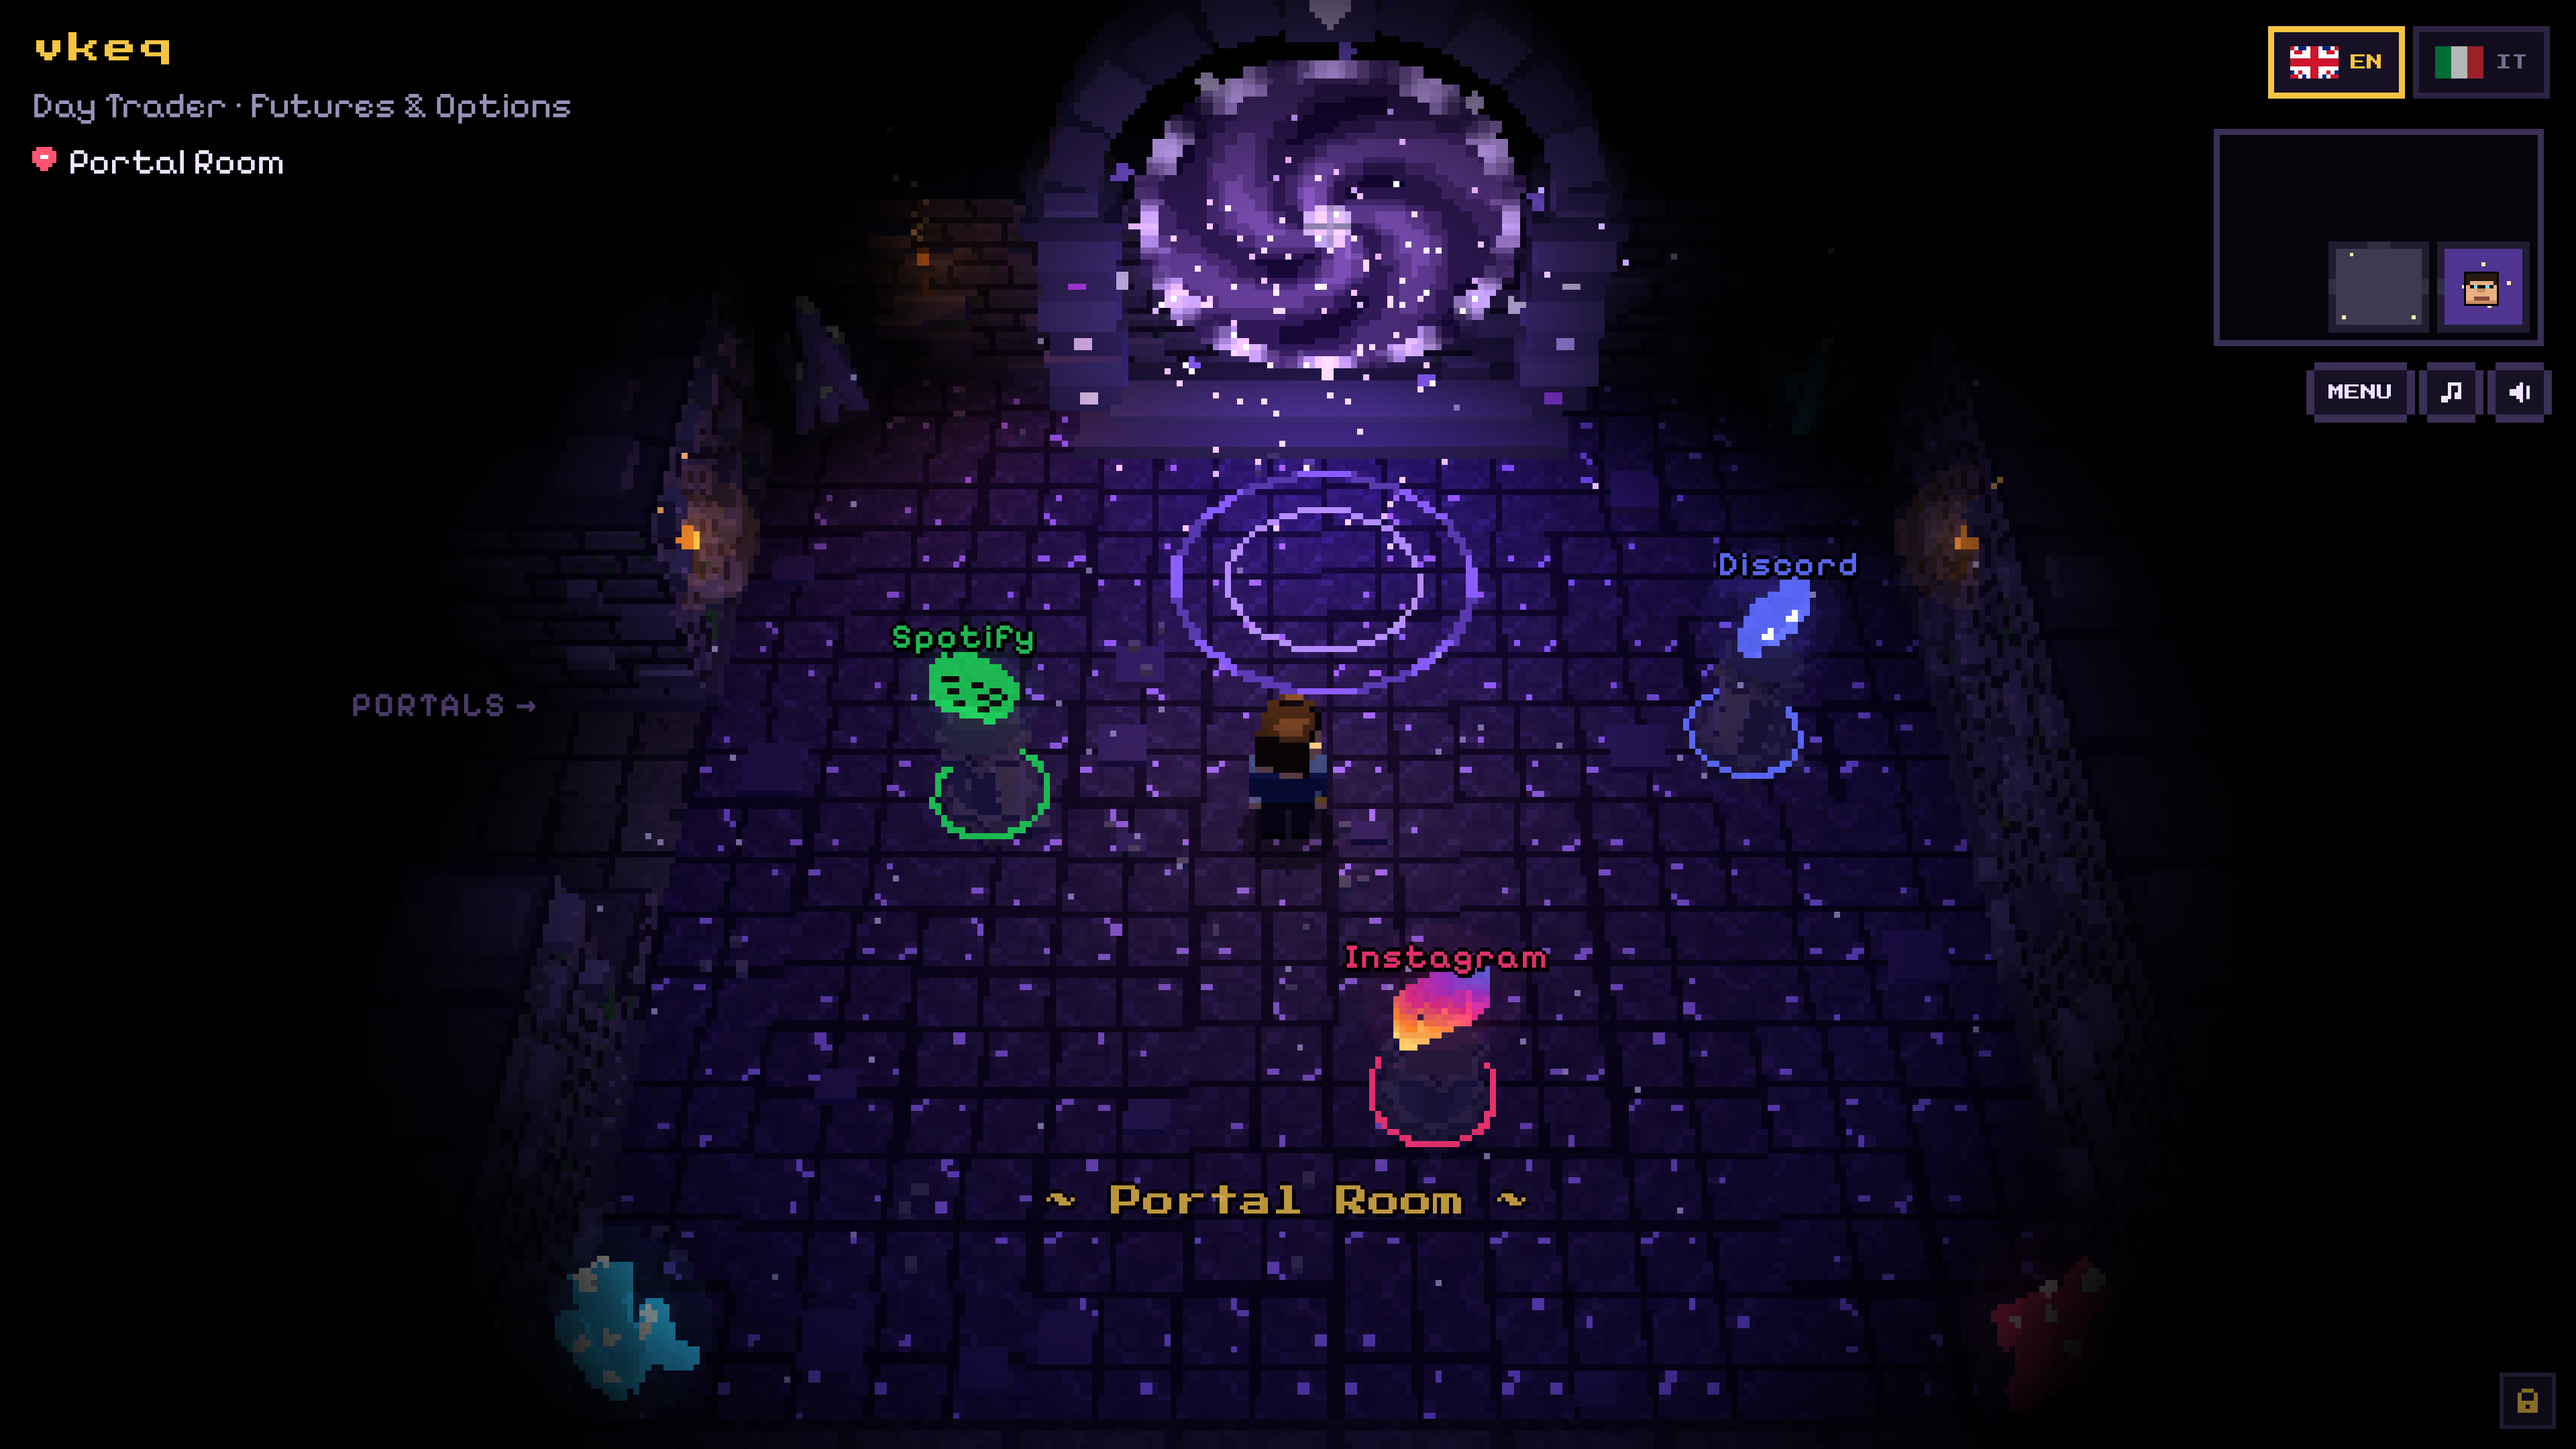
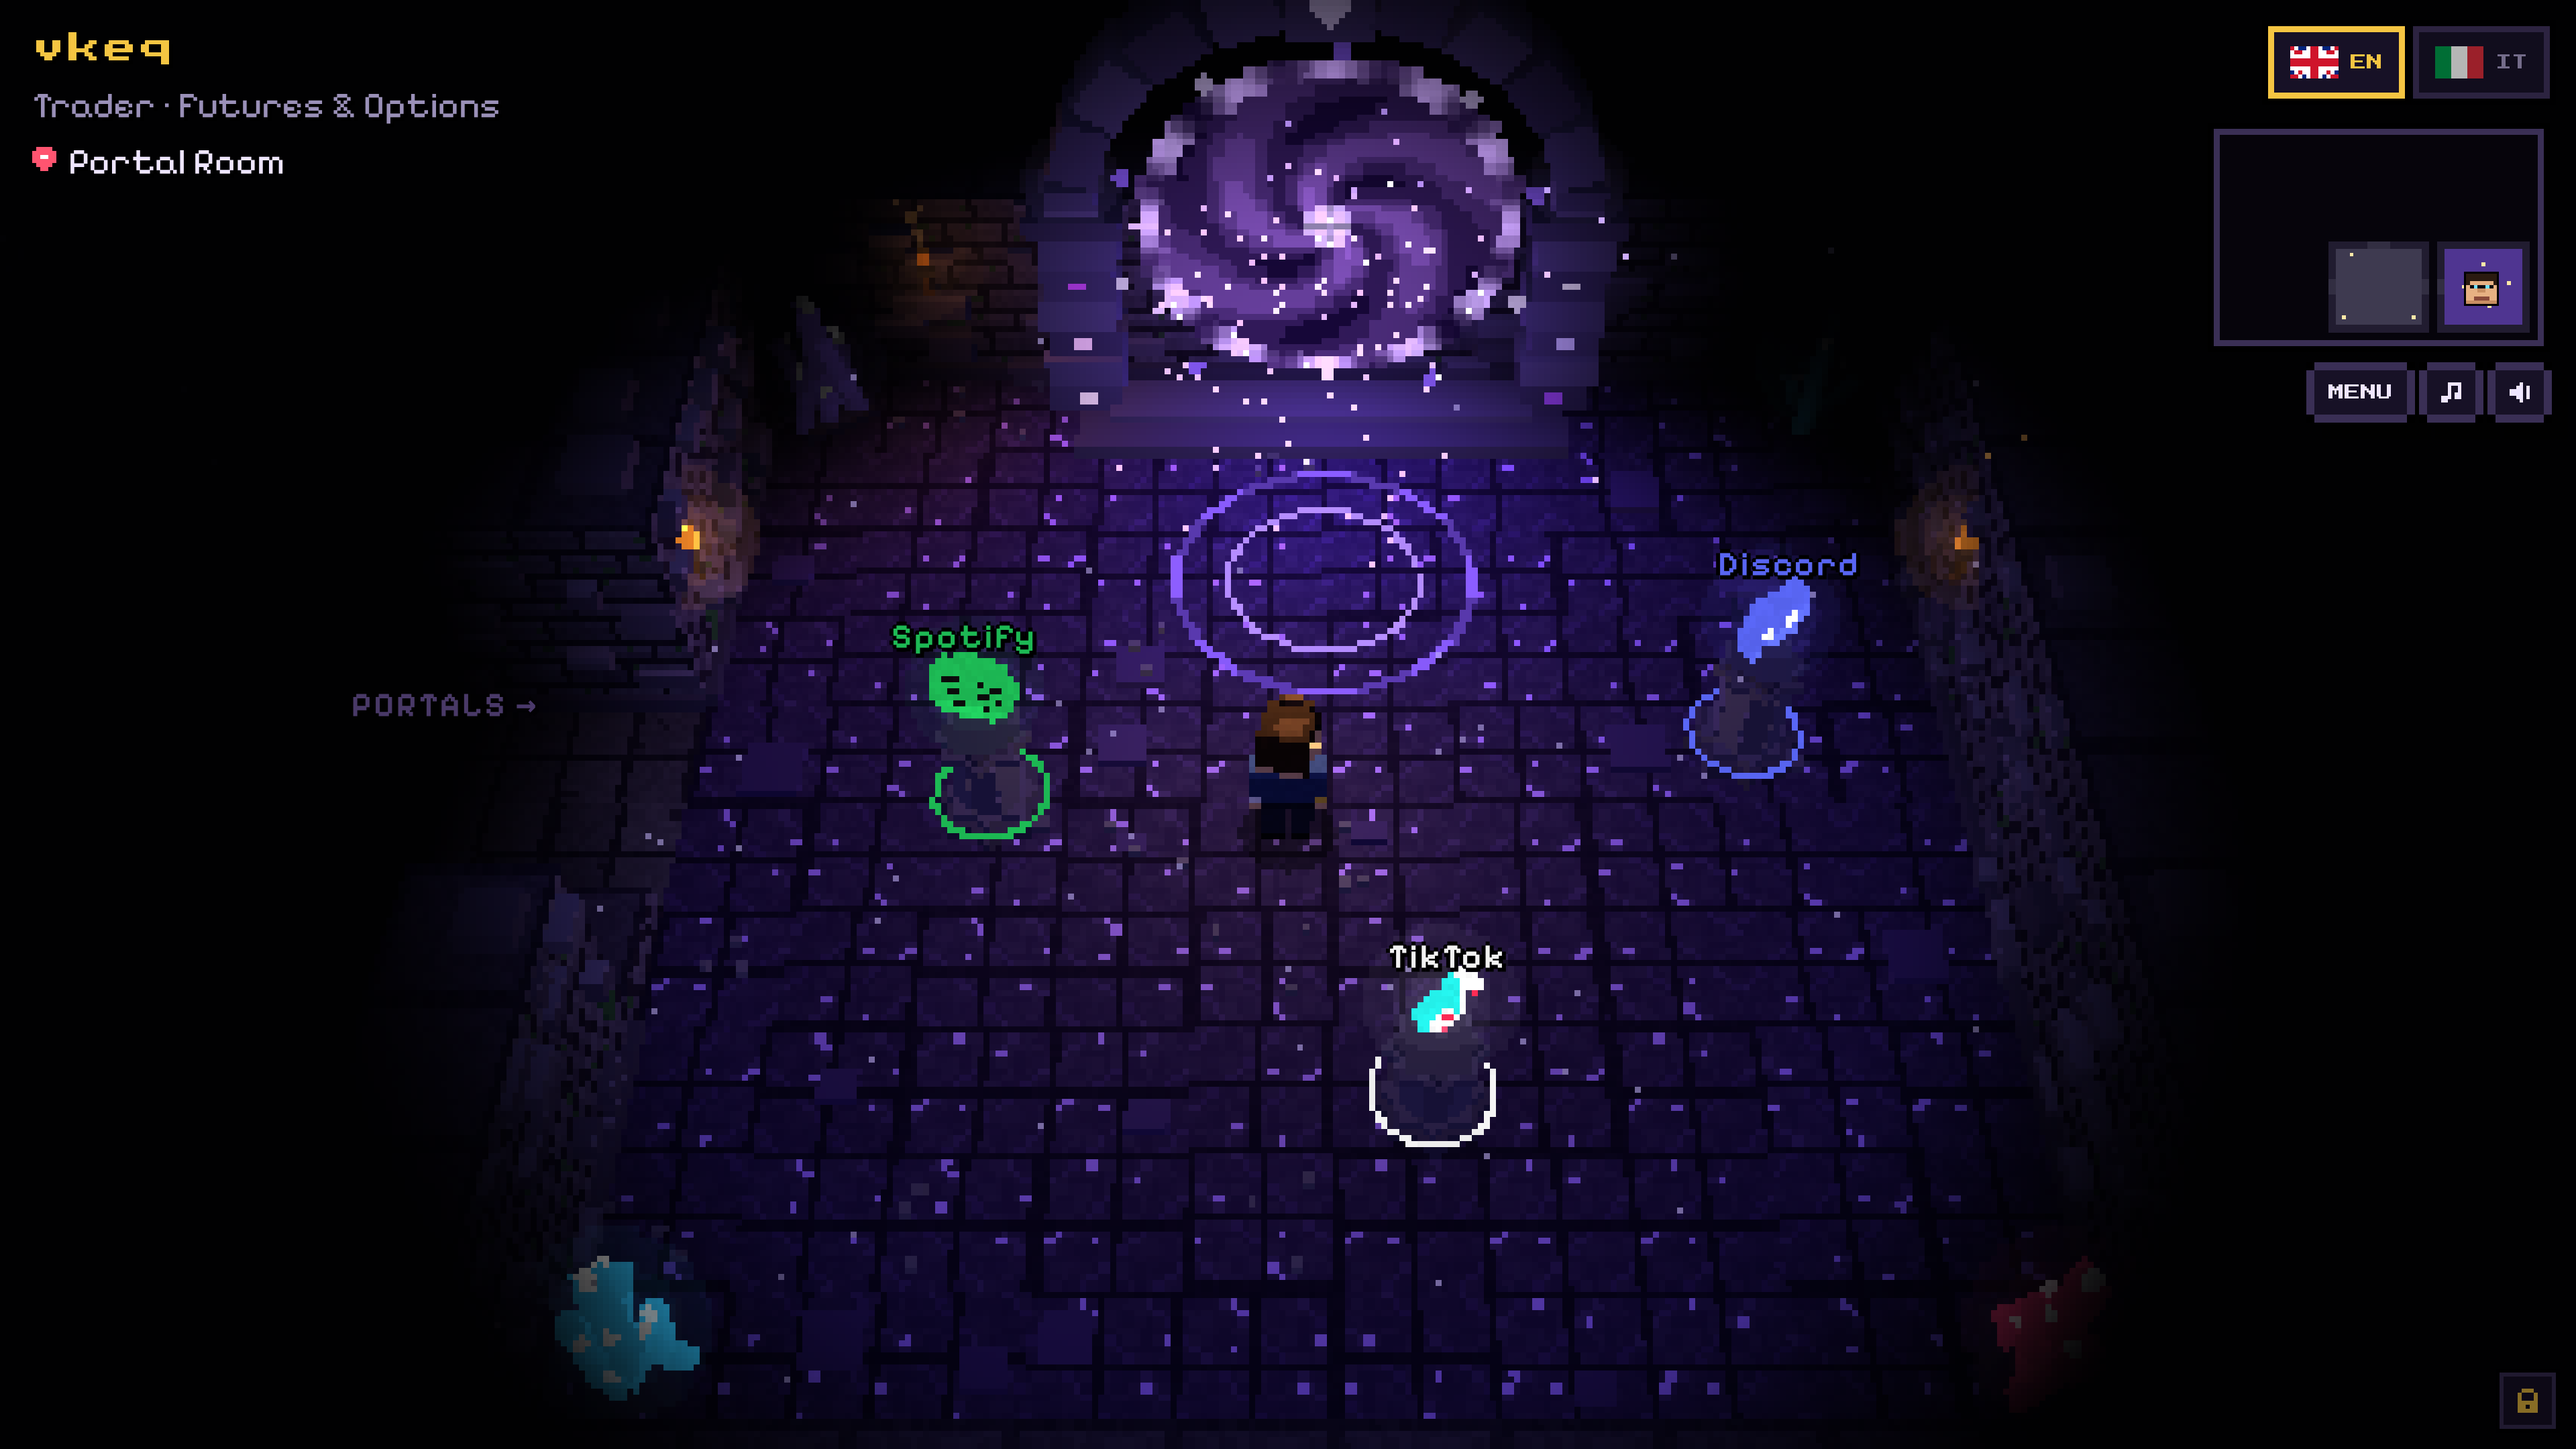
README: screenshots with the content published from the admin
Claude-Session: https://claude.ai/code/session_01Smf6DhVtgaAVwuEFZoZGPB

diff --git a/README.md b/README.md
@@ -4,7 +4,7 @@
 
 # vkeq's dungeon
 
-**vkeq's dungeon** is the personal website of vkeq, a day trader in futures and options, built as a small
+**vkeq's dungeon** is the personal website of vkeq, a futures & options trader, built as a small
 dungeon crawler. There are no pages to scroll: you walk a little voxel trader, in a suit and shades, through
 torch-lit stone rooms. Every room keeps a piece of the keeper's world: who vkeq is, the trading style, the
 numbers and the socials. Along the way, barrels, gold and old books hide short stories from market history.
